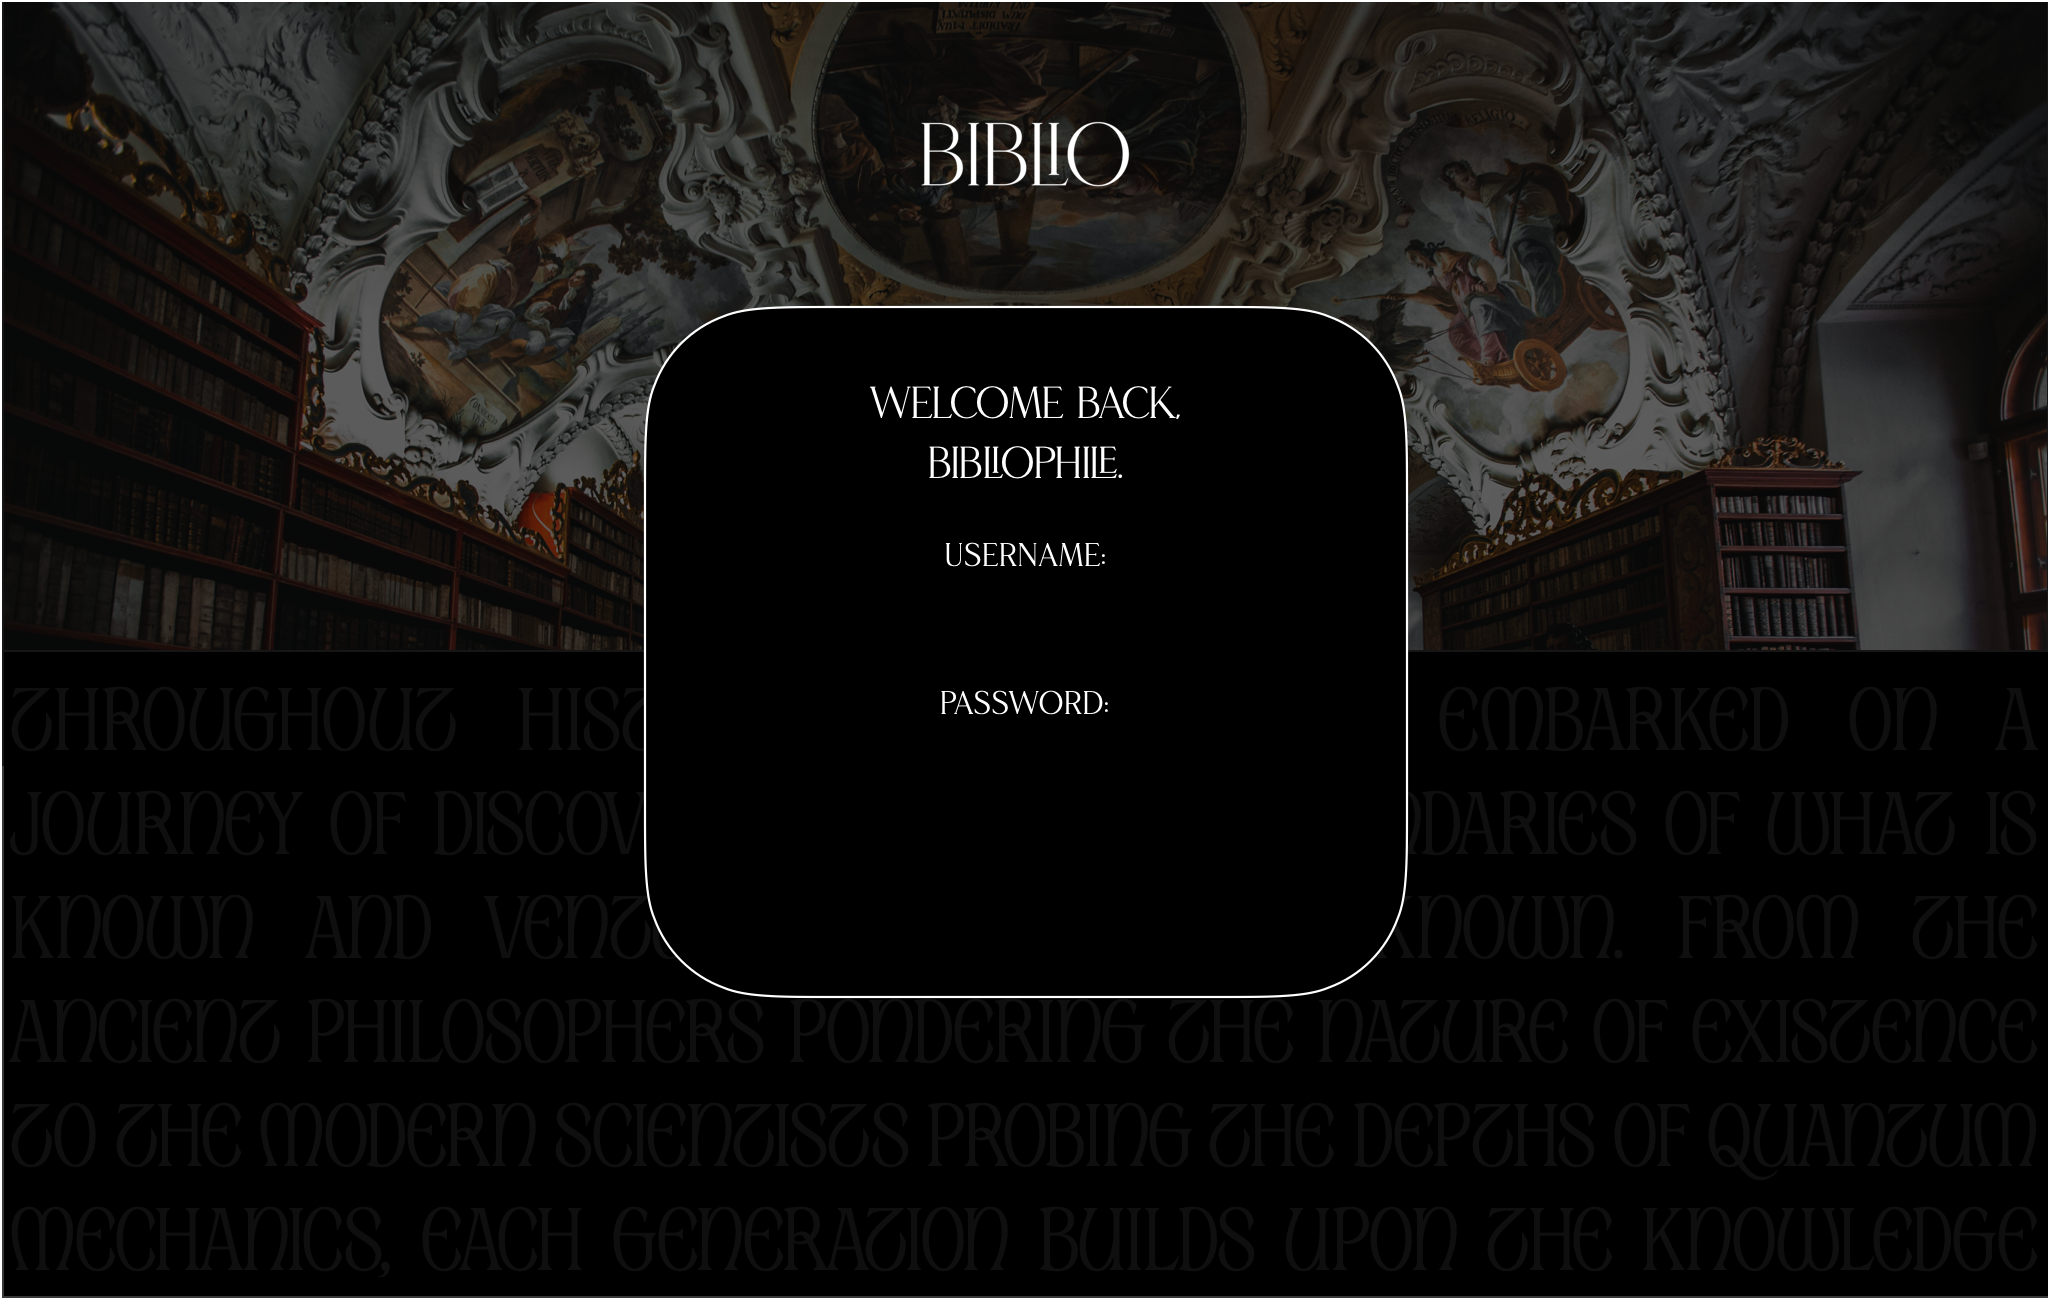
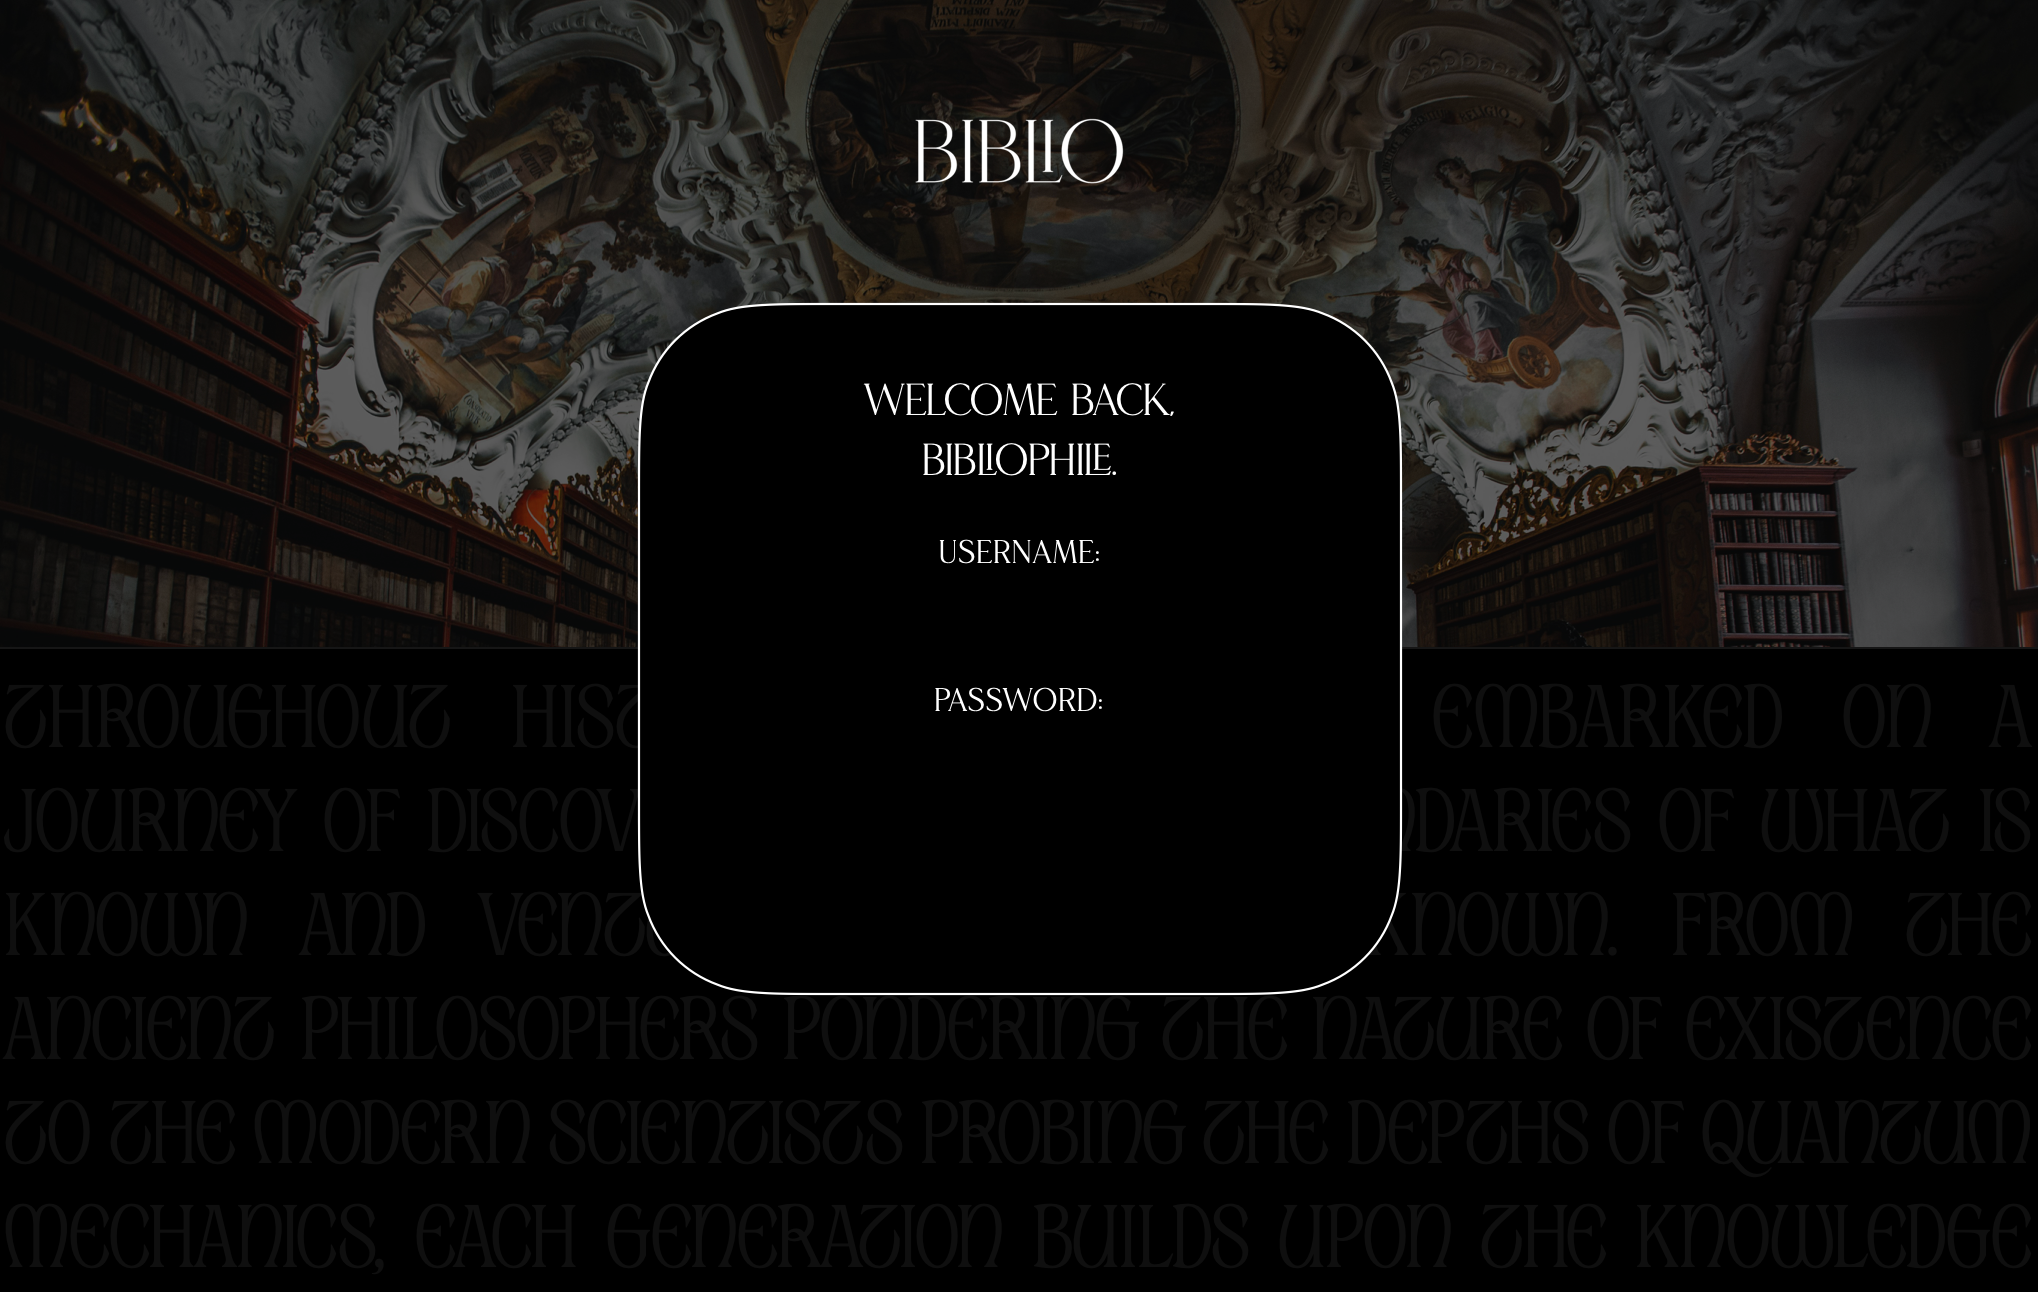
Update other files

diff --git a/frontend/landing.html b/frontend/landing.html
@@ -3,13 +3,13 @@
 <head>
     <meta charset="UTF-8">
     <meta name="viewport" content="width=device-width, initial-scale=1.0">
-    <title>Document</title>
+    <title>Welcome</title>
     <link rel="normalize" href="css/normalize.css">
     <link rel="stylesheet" href="css/landing.css">
     <link href="https://fonts.cdnfonts.com/css/roseritta" rel="stylesheet">
 </head>
 <body>
-    <div class="background"><img class="background" src="/BIBLIO/frontend/webimages/landing.png" alt=""></div>
+    <div class="background"><img class="background" src="/BIBLIO/frontend/webimages/landing.png" alt="Background of landing page"></div>
     <a href="/BIBLIO/frontend/userlogin.html">
         <button class="user">USER</button>
     </a>

diff --git a/frontend/css/landing.css b/frontend/css/landing.css
@@ -1,6 +1,10 @@
-body {
+* {
 
     margin: 0px;
+}
+
+body {
+
     position: relative
 }
 
@@ -38,7 +42,7 @@ button {
     color: white;
     position:absolute;
     left:45.2%;
-    bottom: 26vw;
+    bottom: 25.7vw;
 }
 
 .admin {
